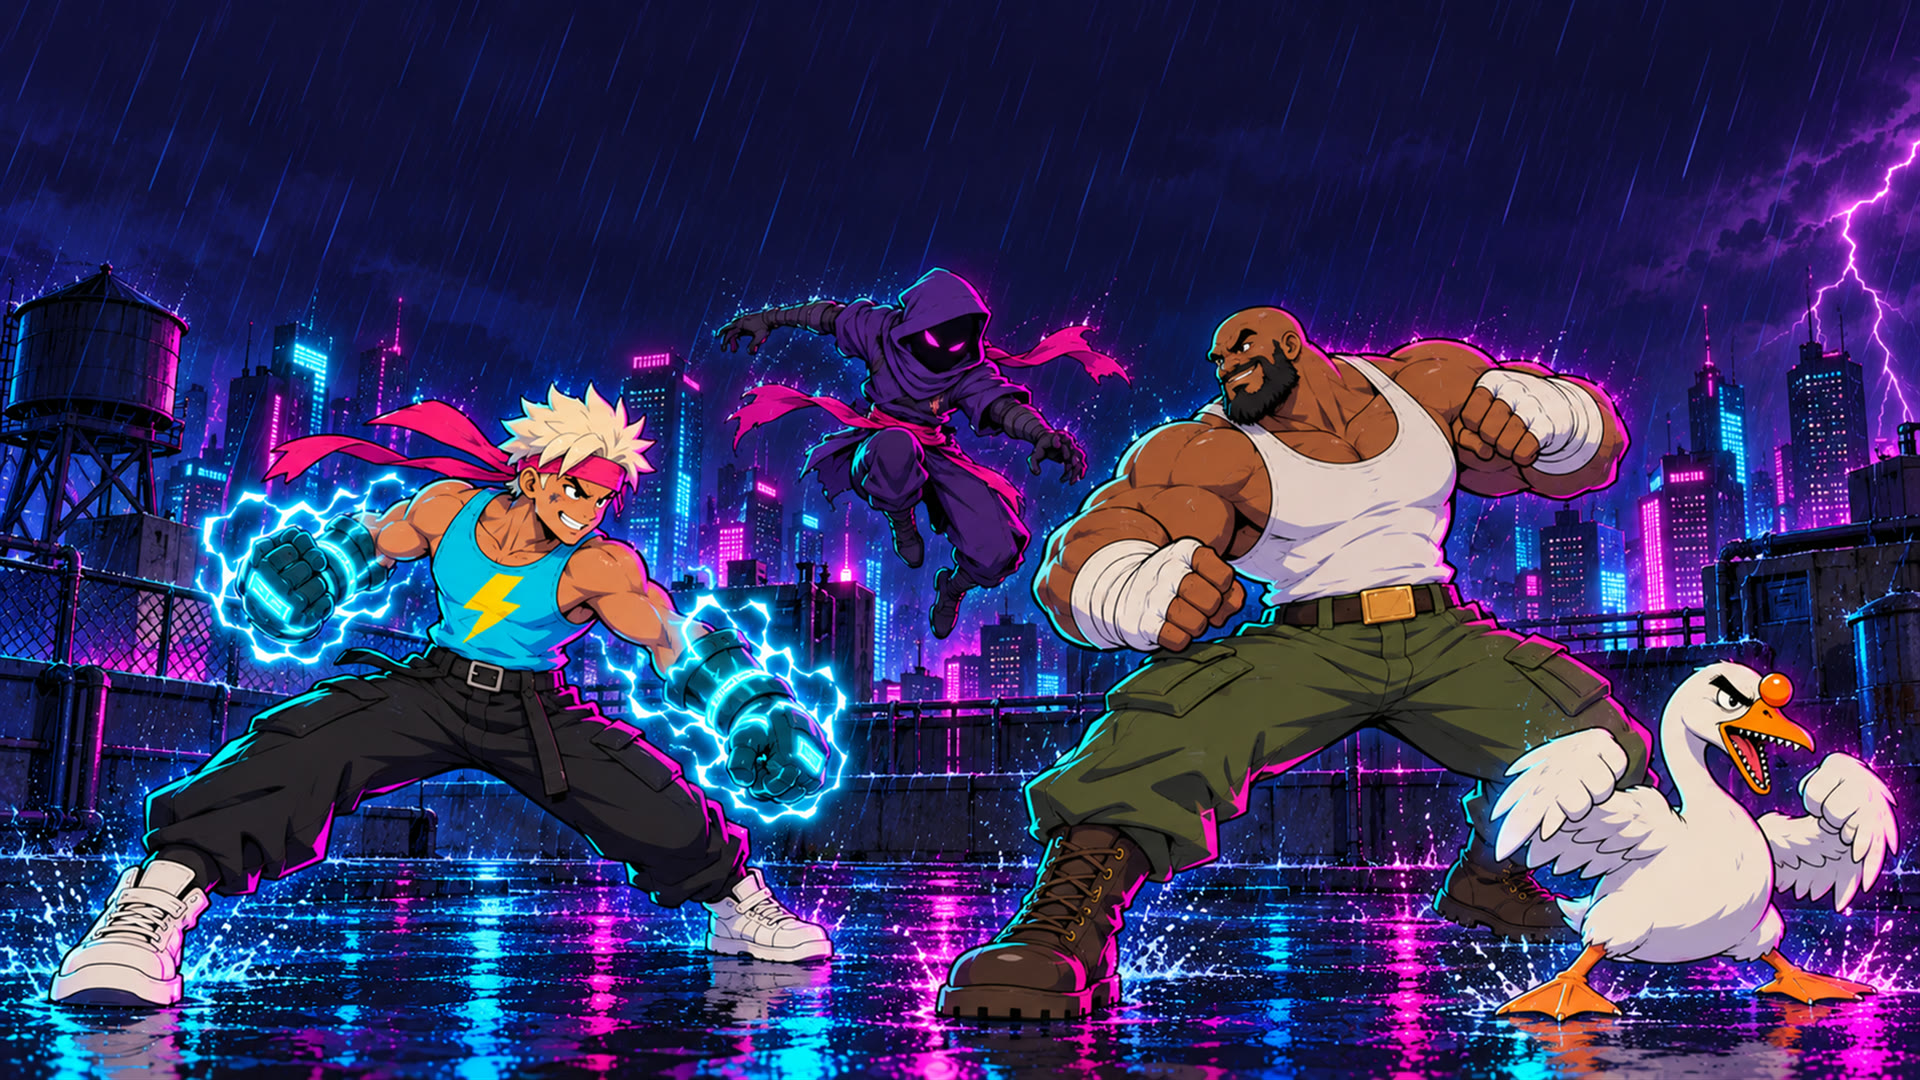
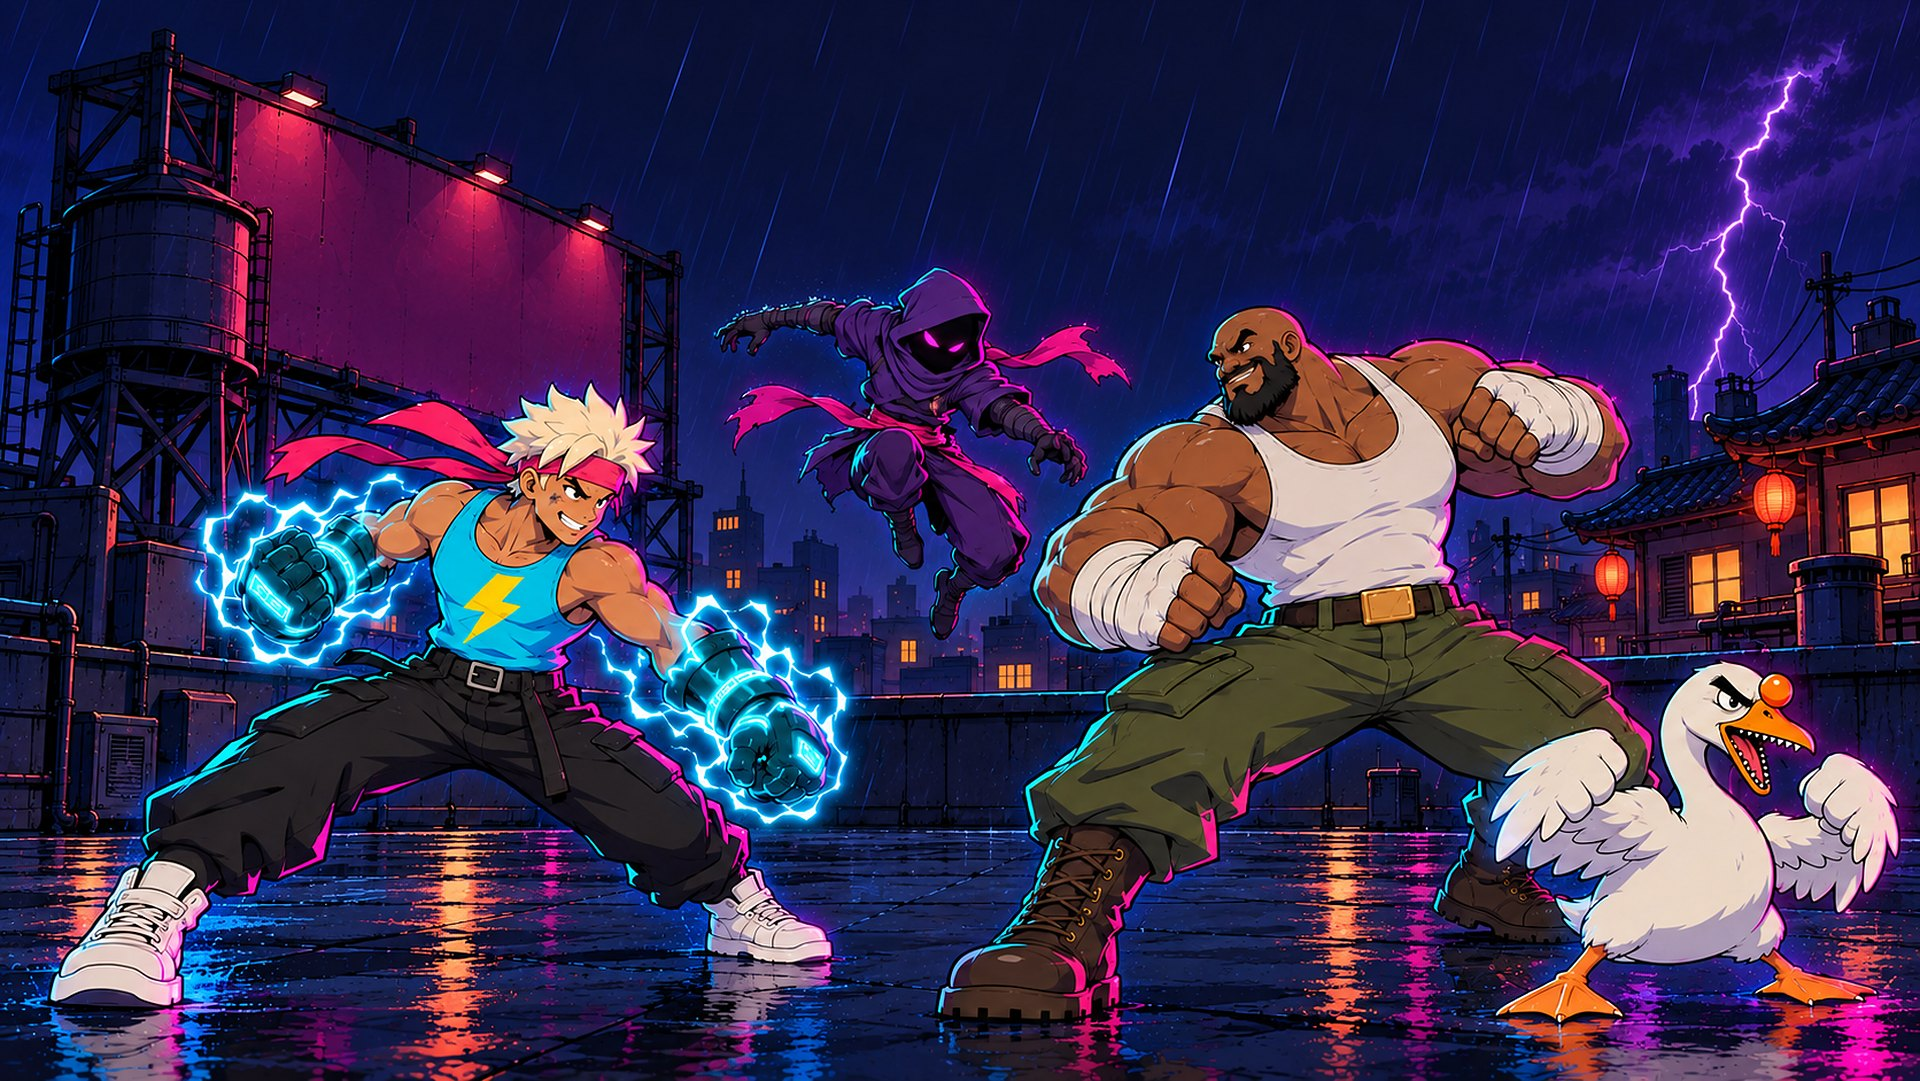
README, share card, social preview, gameplay GIF; key art on the new rooftop

diff --git a/tools/button.html b/tools/button.html
@@ -1,0 +1,19 @@
+<!doctype html>
+<!-- The PLAY NOW button image for READMEs (rendered at 2x by Playwright). -->
+<html><head><meta charset="utf-8">
+<link rel="stylesheet" href="https://fonts.googleapis.com/css2?family=Bangers&display=block">
+<style>
+  html, body { margin: 0; background: transparent; }
+  .wrap { display: inline-block; padding: 14px 18px 22px; }
+  .btn { display: inline-flex; align-items: center; gap: 16px; padding: 14px 36px 16px 28px; border-radius: 16px; border: 6px solid #0b0618;
+    background: linear-gradient(180deg, #ffe96b, #ff9a1f); box-shadow: 0 8px 0 #0b0618; transform: skewX(-8deg);
+    font: 400 52px/1 Bangers, Impact, sans-serif; letter-spacing: 0.05em; color: #fff; -webkit-text-stroke: 4px #0b0618; paint-order: stroke fill; }
+  .btn i { width: 0; height: 0; border-style: solid; border-width: 16px 0 16px 26px; border-color: transparent transparent transparent #0b0618; transform: skewX(8deg); }
+  .btn span { transform: skewX(8deg); }
+</style></head>
+<body><div class="wrap" id="card"><div class="btn"><i></i><span id="t">PLAY NOW</span></div></div>
+<script>
+  const q = new URLSearchParams(location.search);
+  if (q.get('text')) document.getElementById('t').textContent = q.get('text');
+  document.fonts.load('52px Bangers').then(() => (document.title = 'ready'));
+</script></body></html>

diff --git a/tools/og.html b/tools/og.html
@@ -17,15 +17,15 @@
   }
   .art {
     position: absolute;
-    inset: 0;
-    background: url("../assets/art/keyart.jpg") 62% 30% / cover no-repeat;
+    inset: 0 0 0 27%;
+    background: url("../assets/art/keyart.jpg") 0% 50% / auto 104% no-repeat;
   }
   .card::after {
     content: "";
     position: absolute;
     inset: 0;
     background:
-      linear-gradient(90deg, rgba(13, 8, 32, 0.96) 0%, rgba(13, 8, 32, 0.82) 30%, rgba(13, 8, 32, 0.1) 62%, rgba(13, 8, 32, 0) 100%),
+      linear-gradient(90deg, rgba(13, 8, 32, 1) 0%, rgba(13, 8, 32, 0.95) 27%, rgba(13, 8, 32, 0.25) 42%, rgba(13, 8, 32, 0) 55%),
       linear-gradient(0deg, rgba(13, 8, 32, 0.75) 0%, rgba(13, 8, 32, 0) 35%);
   }
   .copy {

diff --git a/README.md b/README.md
@@ -1,0 +1,80 @@
+<div align="center">
+
+<a href="https://rain-on-roof.github.io/rain-fight/"><img src="docs/social.png" alt="Rain Fight — rooftop, rain, one angry goose" width="100%"></a>
+
+<a href="https://rain-on-roof.github.io/rain-fight/"><img src="docs/play.png" alt="Play now" width="300"></a>
+
+**A cartoon fighting game on a rooftop in the rain. Free, in your browser, on phone or desktop.**<br>
+Four fighters, one of them a goose. Best of three. Then you **END IT**.
+
+<img src="docs/gameplay.gif" alt="Gameplay: the goose honks Volt off the roof" width="100%">
+
+</div>
+
+## Fighters
+
+| | | |
+|---|---|---|
+| <img src="assets/art/portrait-volt.jpg" width="120"> | **VOLT** | Fast hands, faster bolts. Throws lightning across the roof. Finisher: **TOASTED**. |
+| <img src="assets/art/portrait-brick.jpg" width="120"> | **BRICK** | Hits like a falling fridge. Slams the roof and sends a shockwave along the floor. Finisher: **NAILED**. |
+| <img src="assets/art/portrait-shade.jpg" width="120"> | **SHADE** | Now you see him. Steps through shadow and strikes from behind. Finisher: **UNDRESSED**. |
+| <img src="assets/art/portrait-goose.jpg" width="120"> | **GOOSE** | Escaped from a park. Angry. The honk is a weapon. Finisher: **HONKED**. |
+
+## How to play
+
+Win two rounds. When the last round ends, the loser wobbles and the screen shouts **END IT!** Walk up and press **special** before the window closes.
+
+| | Keyboard | Touch | Gamepad |
+|---|---|---|---|
+| Move, jump, crouch | <kbd>W</kbd><kbd>A</kbd><kbd>S</kbd><kbd>D</kbd> or arrows | stick | d-pad / left stick |
+| Punch | <kbd>J</kbd> or <kbd>Z</kbd> | **P** | X / □ |
+| Kick | <kbd>K</kbd> or <kbd>X</kbd> | **K** | A / ✕ |
+| Special | <kbd>L</kbd> or <kbd>C</kbd> | **S** | Y / △ |
+| Block | <kbd>Space</kbd> or <kbd>Shift</kbd> | **B** | B / ○ or shoulders |
+
+Two players on one keyboard: player 1 on <kbd>WASD</kbd> + <kbd>J</kbd><kbd>K</kbd><kbd>L</kbd> + <kbd>Space</kbd>, player 2 on arrows + <kbd>,</kbd><kbd>.</kbd><kbd>/</kbd> (or numpad <kbd>1</kbd><kbd>2</kbd><kbd>3</kbd> + <kbd>0</kbd>). Two gamepads work too.
+
+Crouch under high attacks, block low against sweeps, jump the shockwave. Uppercuts launch, and a launched fighter can be juggled.
+
+<p align="center">
+  <img src="docs/screen-toasted.jpg" width="49%" alt="TOASTED">
+  <img src="docs/screen-undressed.jpg" width="49%" alt="UNDRESSED">
+  <img src="docs/screen-select.jpg" width="49%" alt="Character select">
+  <img src="docs/screen-fight.jpg" width="49%" alt="Old town rooftop">
+</p>
+
+## What's in it
+
+- **Four rooftops**: Chinatown, the old town, the harbor and the billboard roof, a different one every match. Rain, lightning, wet reflections.
+- **Real fighting-game rules**: frame data, hitstun and blockstun, high/mid/low, chip damage, juggles with a cap, combo scaling, hitstop, projectiles, a teleport.
+- **A CPU with three levels** that reacts with a human delay instead of reading your inputs.
+- **Music that hits**: a drift-phonk fight track with 808s and cowbells that gets busier in the final round, a darksynth menu, a fanfare when you win and a sad trombone when you don't. All synthesised live, nothing to download.
+- **Plays anywhere**: a control deck under the fight on a phone held upright, overlay controls on its side, keyboard and gamepad on desktop.
+
+<p align="center"><img src="docs/screen-phone.jpg" width="260" alt="Rain Fight on a phone"></p>
+
+## Under the hood
+
+Plain HTML, ES modules and Canvas 2D: no build step, no dependencies, no server.
+
+| Path | What it does |
+|---|---|
+| `src/fight/` | The fight itself, pure and deterministic at 60 steps a second: moves and frame data, fighters, rounds and finishers, the CPU. No DOM. |
+| `src/render/` | Sprites, the painted stages with parallax, effects, the HUD, finishers, the HONK cut-in. |
+| `src/audio.js` | The synth: a step sequencer for both tracks, stingers, layered hit sounds, rain and thunder. |
+| `tools/cut_sprites.py` | Keys the green-screen sprite sheets, finds each pose as a blob, sets its feet anchor and packs one atlas per fighter. |
+| `tools/split_stages.py` | Cuts each stage painting into a slow backdrop and a floor that moves with the fight. |
+| `tests/` | `npm test`: blocking, lows, juggles, projectiles, teleports, rounds, END IT, CPU vs CPU for every pairing, replay determinism. |
+
+Character sheets, key art and stages were made with AI image generation from our briefs (in `tools/`) and then cut, keyed and animated by the code above.
+
+Run it locally with `node tools/serve.mjs` and open http://localhost:4517.
+
+## More from Rain on Roof
+
+<a href="https://rain-on-roof.github.io/last-bite/"><img src="https://rain-on-roof.github.io/last-bite/assets/og.png" width="420" alt="Last Bite"></a><br>
+**[Last Bite](https://github.com/rain-on-roof/last-bite)**: eat your sandwich, don't get honked. Where the goose came from.
+
+---
+
+MIT © Rain on Roof
